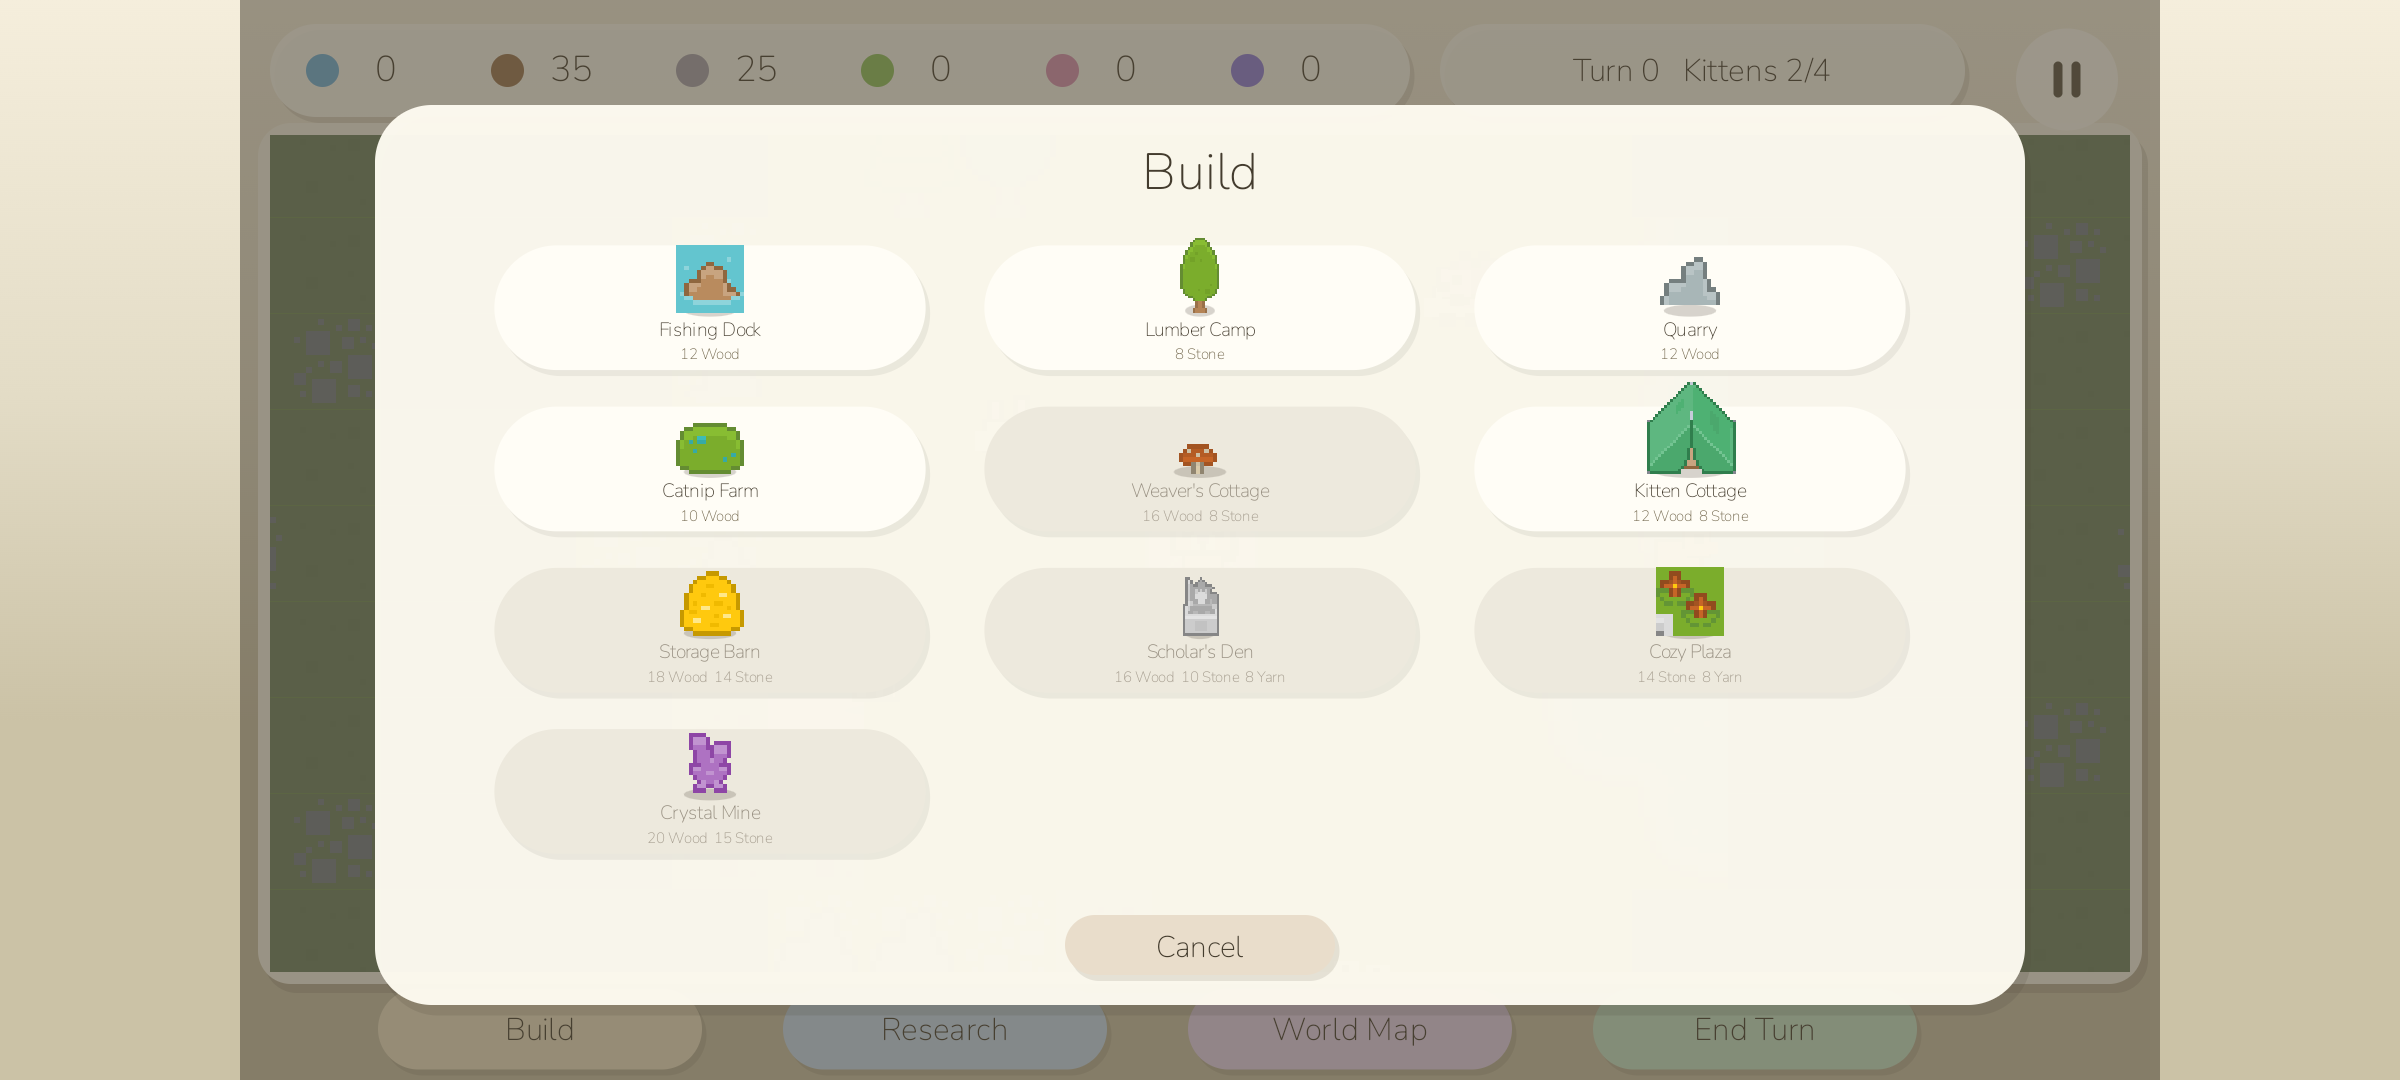
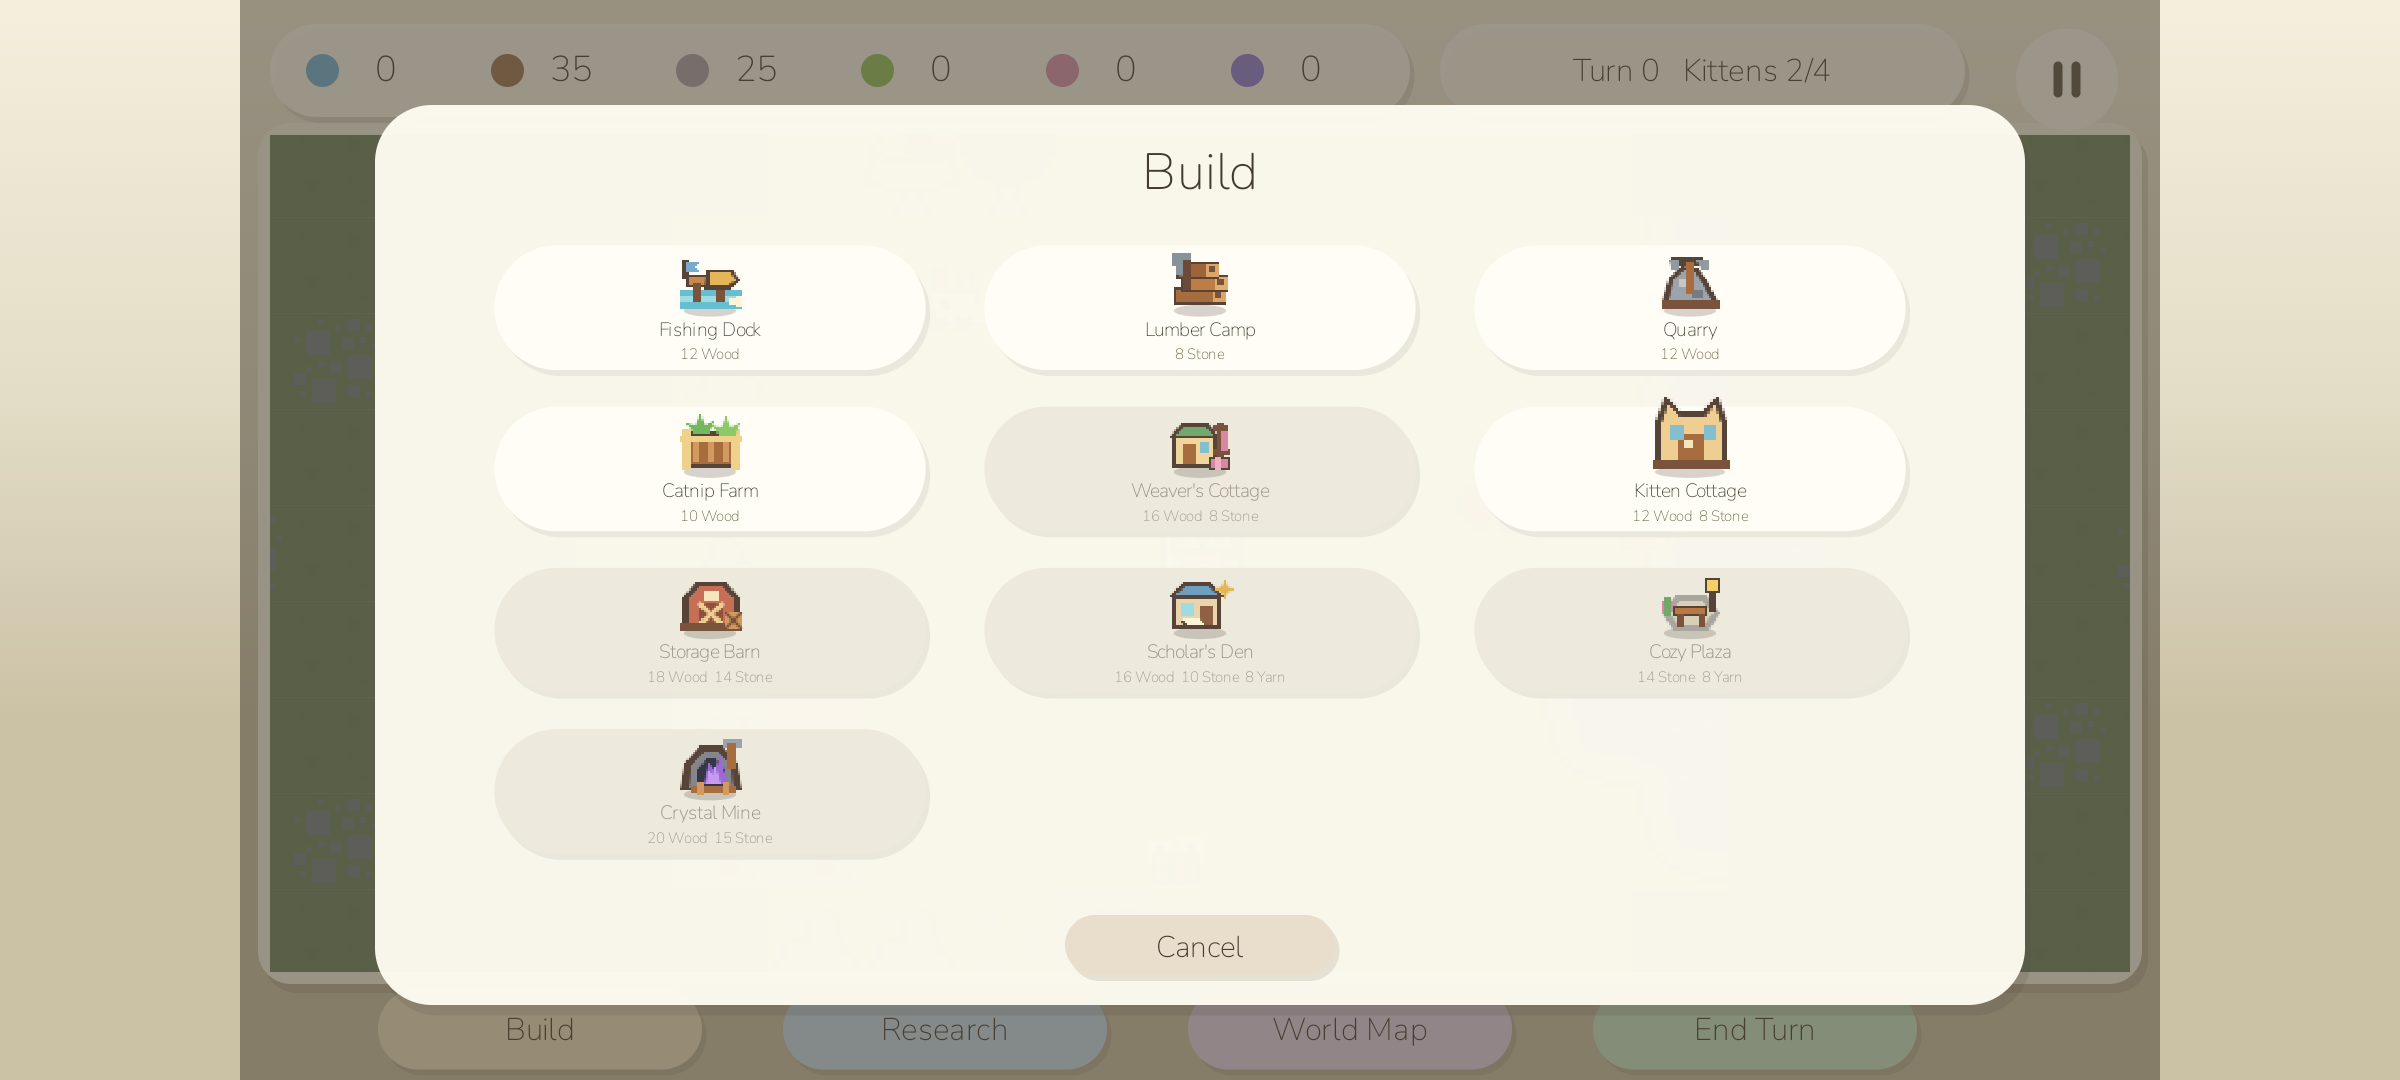
update sprites, buildings

diff --git a/app/src/main/java/com/cocomelonc/kittenkingdoms/WorldMap.java b/app/src/main/java/com/cocomelonc/kittenkingdoms/WorldMap.java
@@ -99,6 +99,7 @@ final class WorldMap {
                 }
             }
         }
+        revealFullySurveyedFeatures();
     }
 
     boolean[][] exploredSnapshot() {
@@ -113,6 +114,110 @@ final class WorldMap {
         for (int r = 0; r < SIZE; r++) {
             System.arraycopy(snapshot[r], 0, explored[r], 0, SIZE);
         }
+        // Older saves may already contain a completely explored shoreline with a fogged-in
+        // lake or outcrop core. Apply the current survey rule as part of migration/load.
+        revealFullySurveyedFeatures();
+    }
+
+    /**
+     * Reveals the inaccessible core of a natural feature once its entire reachable boundary has
+     * been surveyed. Water and stone cannot be walked on, so a purely radius-based fog rule can
+     * otherwise leave permanent dark cells in the middle of a wide lake or outcrop. The feature
+     * remains hidden while even one adjacent walkable shore tile is unexplored, preventing a
+     * single shoreline glimpse from revealing a distant lake-and-river network.
+     */
+    private void revealFullySurveyedFeatures() {
+        boolean[][] visited = new boolean[SIZE][SIZE];
+        int[] cardinalRow = {-1, 1, 0, 0};
+        int[] cardinalCol = {0, 0, -1, 1};
+
+        for (int startRow = 0; startRow < SIZE; startRow++) {
+            for (int startCol = 0; startCol < SIZE; startCol++) {
+                if (visited[startRow][startCol] || isTerrainWalkable(startRow, startCol)) {
+                    continue;
+                }
+
+                int featureTerrain = terrain[startRow][startCol];
+                ArrayDeque<Integer> queue = new ArrayDeque<>();
+                ArrayList<Integer> featureCells = new ArrayList<>();
+                queue.add(encode(startRow, startCol));
+                visited[startRow][startCol] = true;
+                boolean hasWalkableBoundary = false;
+                boolean boundaryFullyExplored = true;
+
+                while (!queue.isEmpty()) {
+                    int encoded = queue.removeFirst();
+                    int row = encoded / SIZE;
+                    int col = encoded % SIZE;
+                    featureCells.add(encoded);
+
+                    for (int dr = -1; dr <= 1; dr++) {
+                        for (int dc = -1; dc <= 1; dc++) {
+                            if (dr == 0 && dc == 0) {
+                                continue;
+                            }
+                            int neighborRow = row + dr;
+                            int neighborCol = col + dc;
+                            if (!inBounds(neighborRow, neighborCol)
+                                    || !isTerrainWalkable(neighborRow, neighborCol)) {
+                                continue;
+                            }
+                            hasWalkableBoundary = true;
+                            if (!explored[neighborRow][neighborCol]) {
+                                boundaryFullyExplored = false;
+                            }
+                        }
+                    }
+
+                    for (int direction = 0; direction < cardinalRow.length; direction++) {
+                        int neighborRow = row + cardinalRow[direction];
+                        int neighborCol = col + cardinalCol[direction];
+                        if (!inBounds(neighborRow, neighborCol)
+                                || visited[neighborRow][neighborCol]
+                                || terrain[neighborRow][neighborCol] != featureTerrain) {
+                            continue;
+                        }
+                        visited[neighborRow][neighborCol] = true;
+                        queue.add(encode(neighborRow, neighborCol));
+                    }
+                }
+
+                if (hasWalkableBoundary && boundaryFullyExplored) {
+                    for (int encoded : featureCells) {
+                        explored[encoded / SIZE][encoded % SIZE] = true;
+                    }
+                }
+            }
+        }
+
+        // Absolute completion guarantee for unusual generated layouts where one impassable
+        // feature is completely nested inside another and therefore has no walkable shoreline.
+        if (isEveryWalkableTileExplored()) {
+            for (int row = 0; row < SIZE; row++) {
+                for (int col = 0; col < SIZE; col++) {
+                    explored[row][col] = true;
+                }
+            }
+        }
+    }
+
+    private boolean isEveryWalkableTileExplored() {
+        for (int row = 0; row < SIZE; row++) {
+            for (int col = 0; col < SIZE; col++) {
+                if (isTerrainWalkable(row, col) && !explored[row][col]) {
+                    return false;
+                }
+            }
+        }
+        return true;
+    }
+
+    private boolean isTerrainWalkable(int row, int col) {
+        return terrainTypes[terrain[row][col]].walkable;
+    }
+
+    private static int encode(int row, int col) {
+        return row * SIZE + col;
     }
 
     private static byte[][] generateTerrain(long seed) {

diff --git a/app/src/main/java/com/cocomelonc/kittenkingdoms/TerrainSprites.java b/app/src/main/java/com/cocomelonc/kittenkingdoms/TerrainSprites.java
@@ -15,9 +15,9 @@ import android.util.SparseArray;
 
 /**
  * The one and only world-art source: Kenney's CC0 Roguelike/RPG sheet also used by
- * crystal-trail. Every ground tile, shoreline, prop, building, and world-map marker is cut from
- * this sheet and enlarged with nearest-neighbor scaling, so no foreign flat-color tiles can leak
- * into the map. See {@code third_party/kenney/KENNEY_LICENSE.txt}.
+ * crystal-trail. Every ground tile, shoreline, prop, and world-map marker is cut from this sheet
+ * and enlarged with nearest-neighbor scaling. Buildings use the project's matching original
+ * pixel sheet so each economic role has an unmistakable silhouette. See {@code ART.md}.
  */
 final class TerrainSprites {
     private static final int SHEET_COLUMNS = 57;
@@ -75,19 +75,7 @@ final class TerrainSprites {
         };
         waterLily = prop(11, 25, 1, 1);
 
-        buildingSprites = new Bitmap[]{
-                prop(10, 48, 2, 2), // Town Hall: beige pavilion
-                prop(23, 54, 1, 1), // Fishing Dock: water rock
-                prop(10, 13, 2, 1), // Lumber Camp
-                prop(21, 54, 1, 1), // Quarry
-                prop(10, 24, 1, 1), // Catnip Farm
-                prop(4, 48, 1, 1),  // Weaver's Cottage
-                prop(10, 46, 2, 2), // Kitten Cottage: green pavilion
-                prop(11, 43, 1, 1), // Storage Barn
-                prop(10, 50, 2, 1), // Scholar's Den
-                tileAt(FLOWERS[0]),  // Cozy Plaza
-                prop(24, 41, 1, 1), // Crystal Mine
-        };
+        buildingSprites = loadBuildingSprites(resources);
         settlementSprites = new Bitmap[]{
                 prop(10, 46, 2, 2), prop(10, 48, 2, 2),
                 prop(10, 50, 2, 1), prop(24, 41, 1, 1),
@@ -191,6 +179,25 @@ final class TerrainSprites {
 
     Bitmap settlementFor(int settlementId) {
         return settlementSprites[Math.floorMod(settlementId, settlementSprites.length)];
+    }
+
+    private Bitmap[] loadBuildingSprites(Resources resources) {
+        BitmapFactory.Options options = new BitmapFactory.Options();
+        options.inScaled = false;
+        Bitmap buildingSheet = BitmapFactory.decodeResource(
+                resources, R.drawable.building_icons, options);
+        int expectedWidth = BuildingType.COUNT * OUTPUT_CELL;
+        if (buildingSheet == null || buildingSheet.getWidth() != expectedWidth
+                || buildingSheet.getHeight() != OUTPUT_CELL) {
+            throw new IllegalStateException("Building sprite sheet must be "
+                    + expectedWidth + "x" + OUTPUT_CELL + " pixels");
+        }
+        Bitmap[] result = new Bitmap[BuildingType.COUNT];
+        for (int buildingId = 0; buildingId < result.length; buildingId++) {
+            result[buildingId] = Bitmap.createBitmap(buildingSheet,
+                    buildingId * OUTPUT_CELL, 0, OUTPUT_CELL, OUTPUT_CELL);
+        }
+        return result;
     }
 
     private Bitmap tileAt(int tileIndex) {

diff --git a/app/src/test/java/com/cocomelonc/kittenkingdoms/WorldMapTest.java b/app/src/test/java/com/cocomelonc/kittenkingdoms/WorldMapTest.java
@@ -74,6 +74,28 @@ public final class WorldMapTest {
     }
 
     @Test
+    public void fullyExploringReachableLandRevealsEveryCellForEveryGeneratedWorld() {
+        for (long seed = 0; seed < 128; seed++) {
+            WorldMap map = new WorldMap(seed);
+            boolean[][] allReachableLandExplored = new boolean[WorldMap.SIZE][WorldMap.SIZE];
+            for (int row = 0; row < WorldMap.SIZE; row++) {
+                for (int col = 0; col < WorldMap.SIZE; col++) {
+                    allReachableLandExplored[row][col] = map.isWalkable(row, col);
+                }
+            }
+
+            map.restoreExplored(allReachableLandExplored);
+
+            for (int row = 0; row < WorldMap.SIZE; row++) {
+                for (int col = 0; col < WorldMap.SIZE; col++) {
+                    assertTrue("Permanently hidden tile for seed " + seed + " at " + row + "," + col,
+                            map.isExplored(row, col));
+                }
+            }
+        }
+    }
+
+    @Test
     public void openingMeadowShowsEveryTerrainNeededByTheGame() {
         WorldMap map = new WorldMap();
         map.revealAround(WorldMap.START_ROW, WorldMap.START_COL);

diff --git a/README.md b/README.md
@@ -51,7 +51,10 @@ The pause card uses the same EN/RU switch as every other screen:
 
 - **Explore**: drag to pan the map, pinch to zoom, tap a tile to walk the
   kitten there. Fog of war reveals permanently in a radius around every tile
-  the kitten visits - once seen, land stays known.
+  the kitten visits - once seen, land stays known. When every reachable edge
+  of a lake or stone outcrop has been surveyed, its inaccessible centre is
+  revealed automatically. Exploring all walkable land is guaranteed to reveal
+  every one of the world's 96x96 cells for every generated seed.
 - **Build**: once a tile is discovered, open *Build* and place any building
   you can afford there instantly; no need to walk the kitten to the site
   itself. Some buildings need to be adjacent to specific terrain (a Fishing
@@ -102,10 +105,12 @@ economy, just so the kingdom doesn't feel empty.
 - English and Russian resources bundled in every APK/AAB.
 - Original procedural chimes and calm background music; no sampled audio
   files or codec dependency.
-- The entire playable world uses one CC0 Kenney pixel tilesheet, including
-  every terrain edge, prop, building, and regional marker. The animated
-  kitten and wildlife sheets are original MIT-licensed project art; Canvas is
-  reserved for scalable interface chrome - see [ART.md](ART.md).
+- The terrain uses one CC0 Kenney pixel tilesheet, including every shoreline,
+  ground edge, prop, and regional marker. Buildings use an original matching
+  eleven-frame sprite sheet whose silhouettes communicate their purpose at a
+  glance. The animated kitten and wildlife sheets are also original
+  MIT-licensed project art; Canvas is reserved for scalable interface chrome
+  - see [ART.md](ART.md).
 
 ### Android configuration
 
@@ -176,7 +181,8 @@ The unit tests validate every content registry (terrain, resources,
 buildings, technologies), prove the technology tree is acyclic and fully
 reachable from its root, flood-fill the generated terrain for full
 connectivity from the kitten's starting tile, validate every generated water
-edge against the tilesheet's shoreline vocabulary, drive the turn-based economy
+edge against the tilesheet's shoreline vocabulary, prove across 128 generated
+seeds that exhaustive land exploration uncovers every map cell, drive the turn-based economy
 through production, storage caps, population growth, tech-gated and
 terrain-gated building placement, and upkeep shortfalls, exercise envoy,
 courier, gift, and trade-route rules, and round-trip and migrate the save
@@ -222,7 +228,7 @@ app/src/main/java/com/cocomelonc/kittenkingdoms/
   WildlifeCritter.java    decorative background creature: no AI, just wanders
   Settlement.java         the four neighbouring settlement definitions
   DiplomacySystem.java    relationship, travel, gifts, and trade-route rules
-  TerrainSprites.java     slices/caches one CC0 Kenney world tilesheet
+  TerrainSprites.java     slices/caches the Kenney world and original building sheets
   KittenSprites.java      four-direction, four-frame kitten animation loader
   WildlifeSprites.java    two-frame wildlife animation loader
   TurnMath.java           stateless per-turn economy formulas
@@ -230,11 +236,11 @@ app/src/main/java/com/cocomelonc/kittenkingdoms/
   KingdomSerializer.java  zero-dependency versioned binary save format
   AudioEngine.java        tiny procedural chime synthesizer
   MusicEngine.java        calm original procedural background music
-app/src/main/res/drawable-nodpi/  Kenney sheet and original animated sprite sheets
+app/src/main/res/drawable-nodpi/  Kenney terrain and original character/building sheets
 app/src/test/             terrain, economy, diplomacy, and save-format tests
 art/                      open-source cover, screenshots, and editable sprite sources
 third_party/nunito/       exact SIL OFL license for the bundled font
-third_party/kenney/       exact CC0 license for the terrain/building tiles
+third_party/kenney/       exact CC0 license for the terrain and regional markers
 scripts/                  reproducible Android verification
 ```
 

diff --git a/ART.md b/ART.md
@@ -6,8 +6,8 @@
 
 Kitten Kingdoms uses one visual language for its entire playable world: the
 same 16px Kenney Roguelike/RPG sheet used by `crystal-trail`. Ground, forest
-floor, hills, stone, every shoreline angle, vegetation, rocks, buildings,
-water decoration, and world-map settlement markers are sliced from that one
+floor, hills, stone, every shoreline angle, vegetation, rocks, water
+decoration, and world-map settlement markers are sliced from that one
 sheet by `TerrainSprites.java` and enlarged 4x with nearest-neighbour scaling.
 There are no flat Canvas terrain cells or procedurally drawn shore strips.
 
@@ -24,12 +24,21 @@ cannot accidentally mix them with a different terrain renderer.
 
 ## Original pixel art
 
-The four-direction kitten walk cycle and two-frame rabbit, hedgehog, duckling,
-and bee animations are original project artwork:
+The four-direction kitten walk cycle, two-frame rabbit, hedgehog, duckling and
+bee animations, and eleven building icons are original project artwork:
 
-- editable sources: `art/source/kitten_walk.svg`, `art/source/wildlife.svg`
-- runtime sheets: `drawable-nodpi/kitten_walk.png`, `drawable-nodpi/wildlife.png`
+- editable sources: `art/source/kitten_walk.svg`, `art/source/wildlife.svg`,
+  `art/source/building_icons.svg`
+- runtime sheets: `drawable-nodpi/kitten_walk.png`, `drawable-nodpi/wildlife.png`,
+  `drawable-nodpi/building_icons.png`
 - license: MIT, the same as the project code
+
+Every building has its own economic silhouette: logs and an axe for the
+Lumber Camp, a pier and boat for the Fishing Dock, rock and pickaxe for the
+Quarry, crop rows for the Catnip Farm, yarn and spindle for the Weaver's
+Cottage, a barn and crate for storage, an open book for scholarship, and a
+cave with crystals for mining. They intentionally share the terrain palette
+and 2x pixel scale without reusing ambiguous terrain props as building art.
 
 The adaptive launcher icon uses the same kitten palette and pixel proportions.
 Interface cards, typography, relationship routes, progress bars, shadows, and